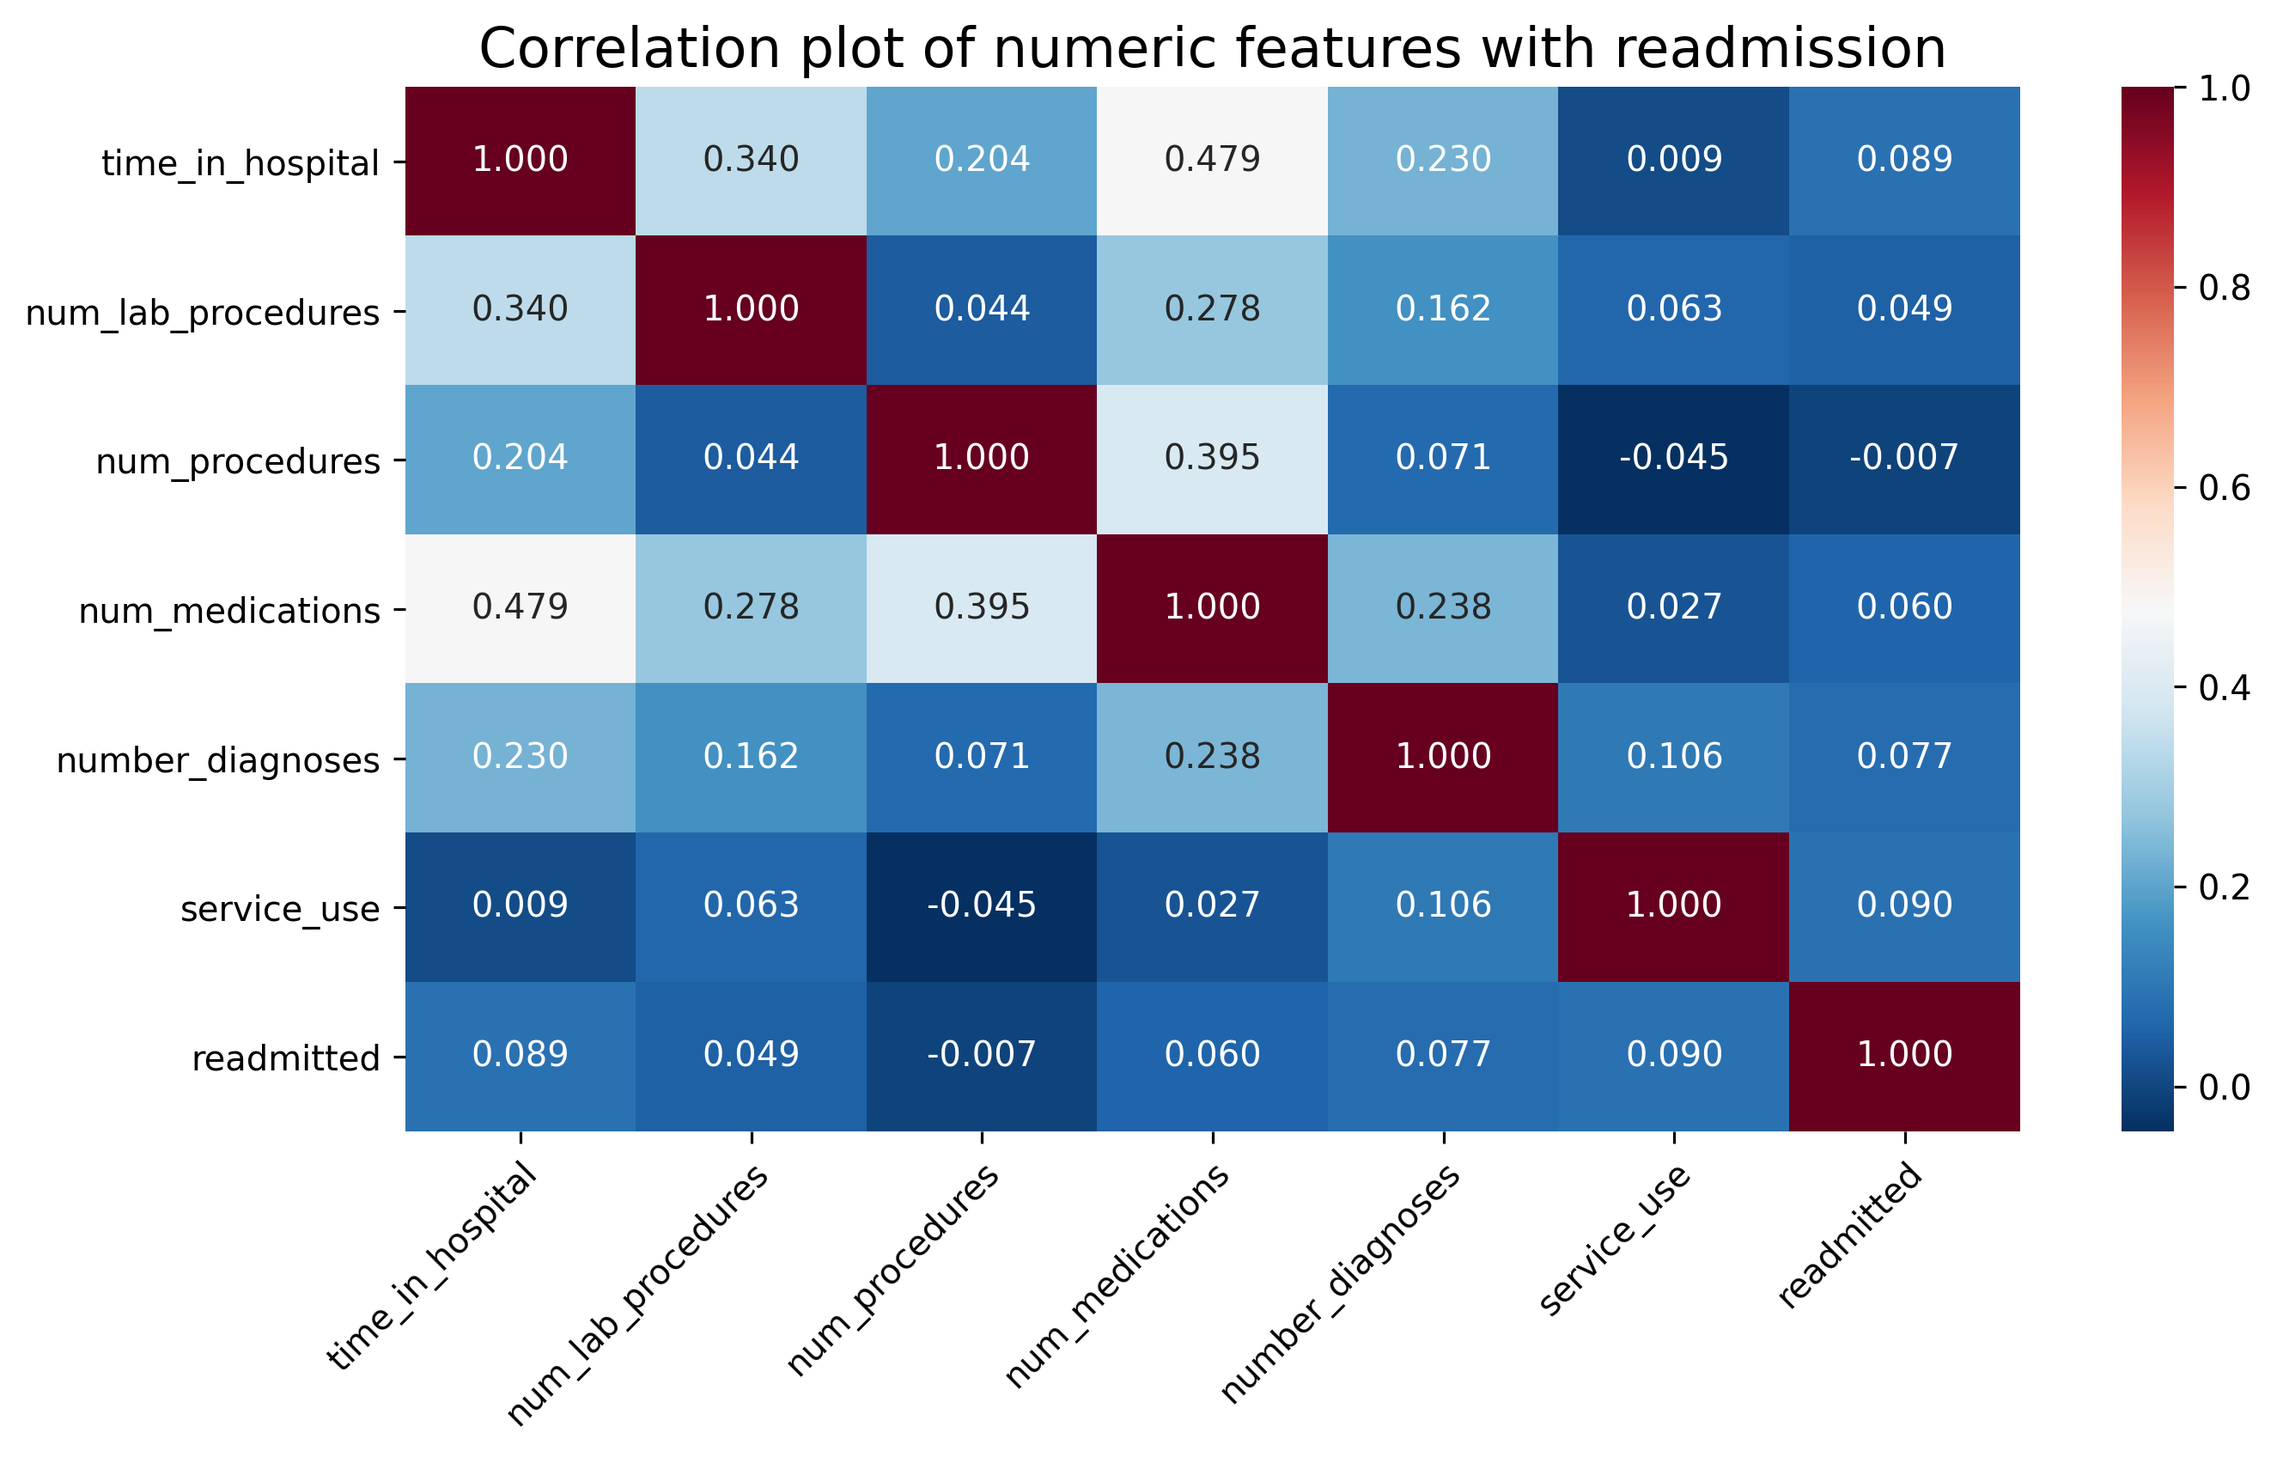
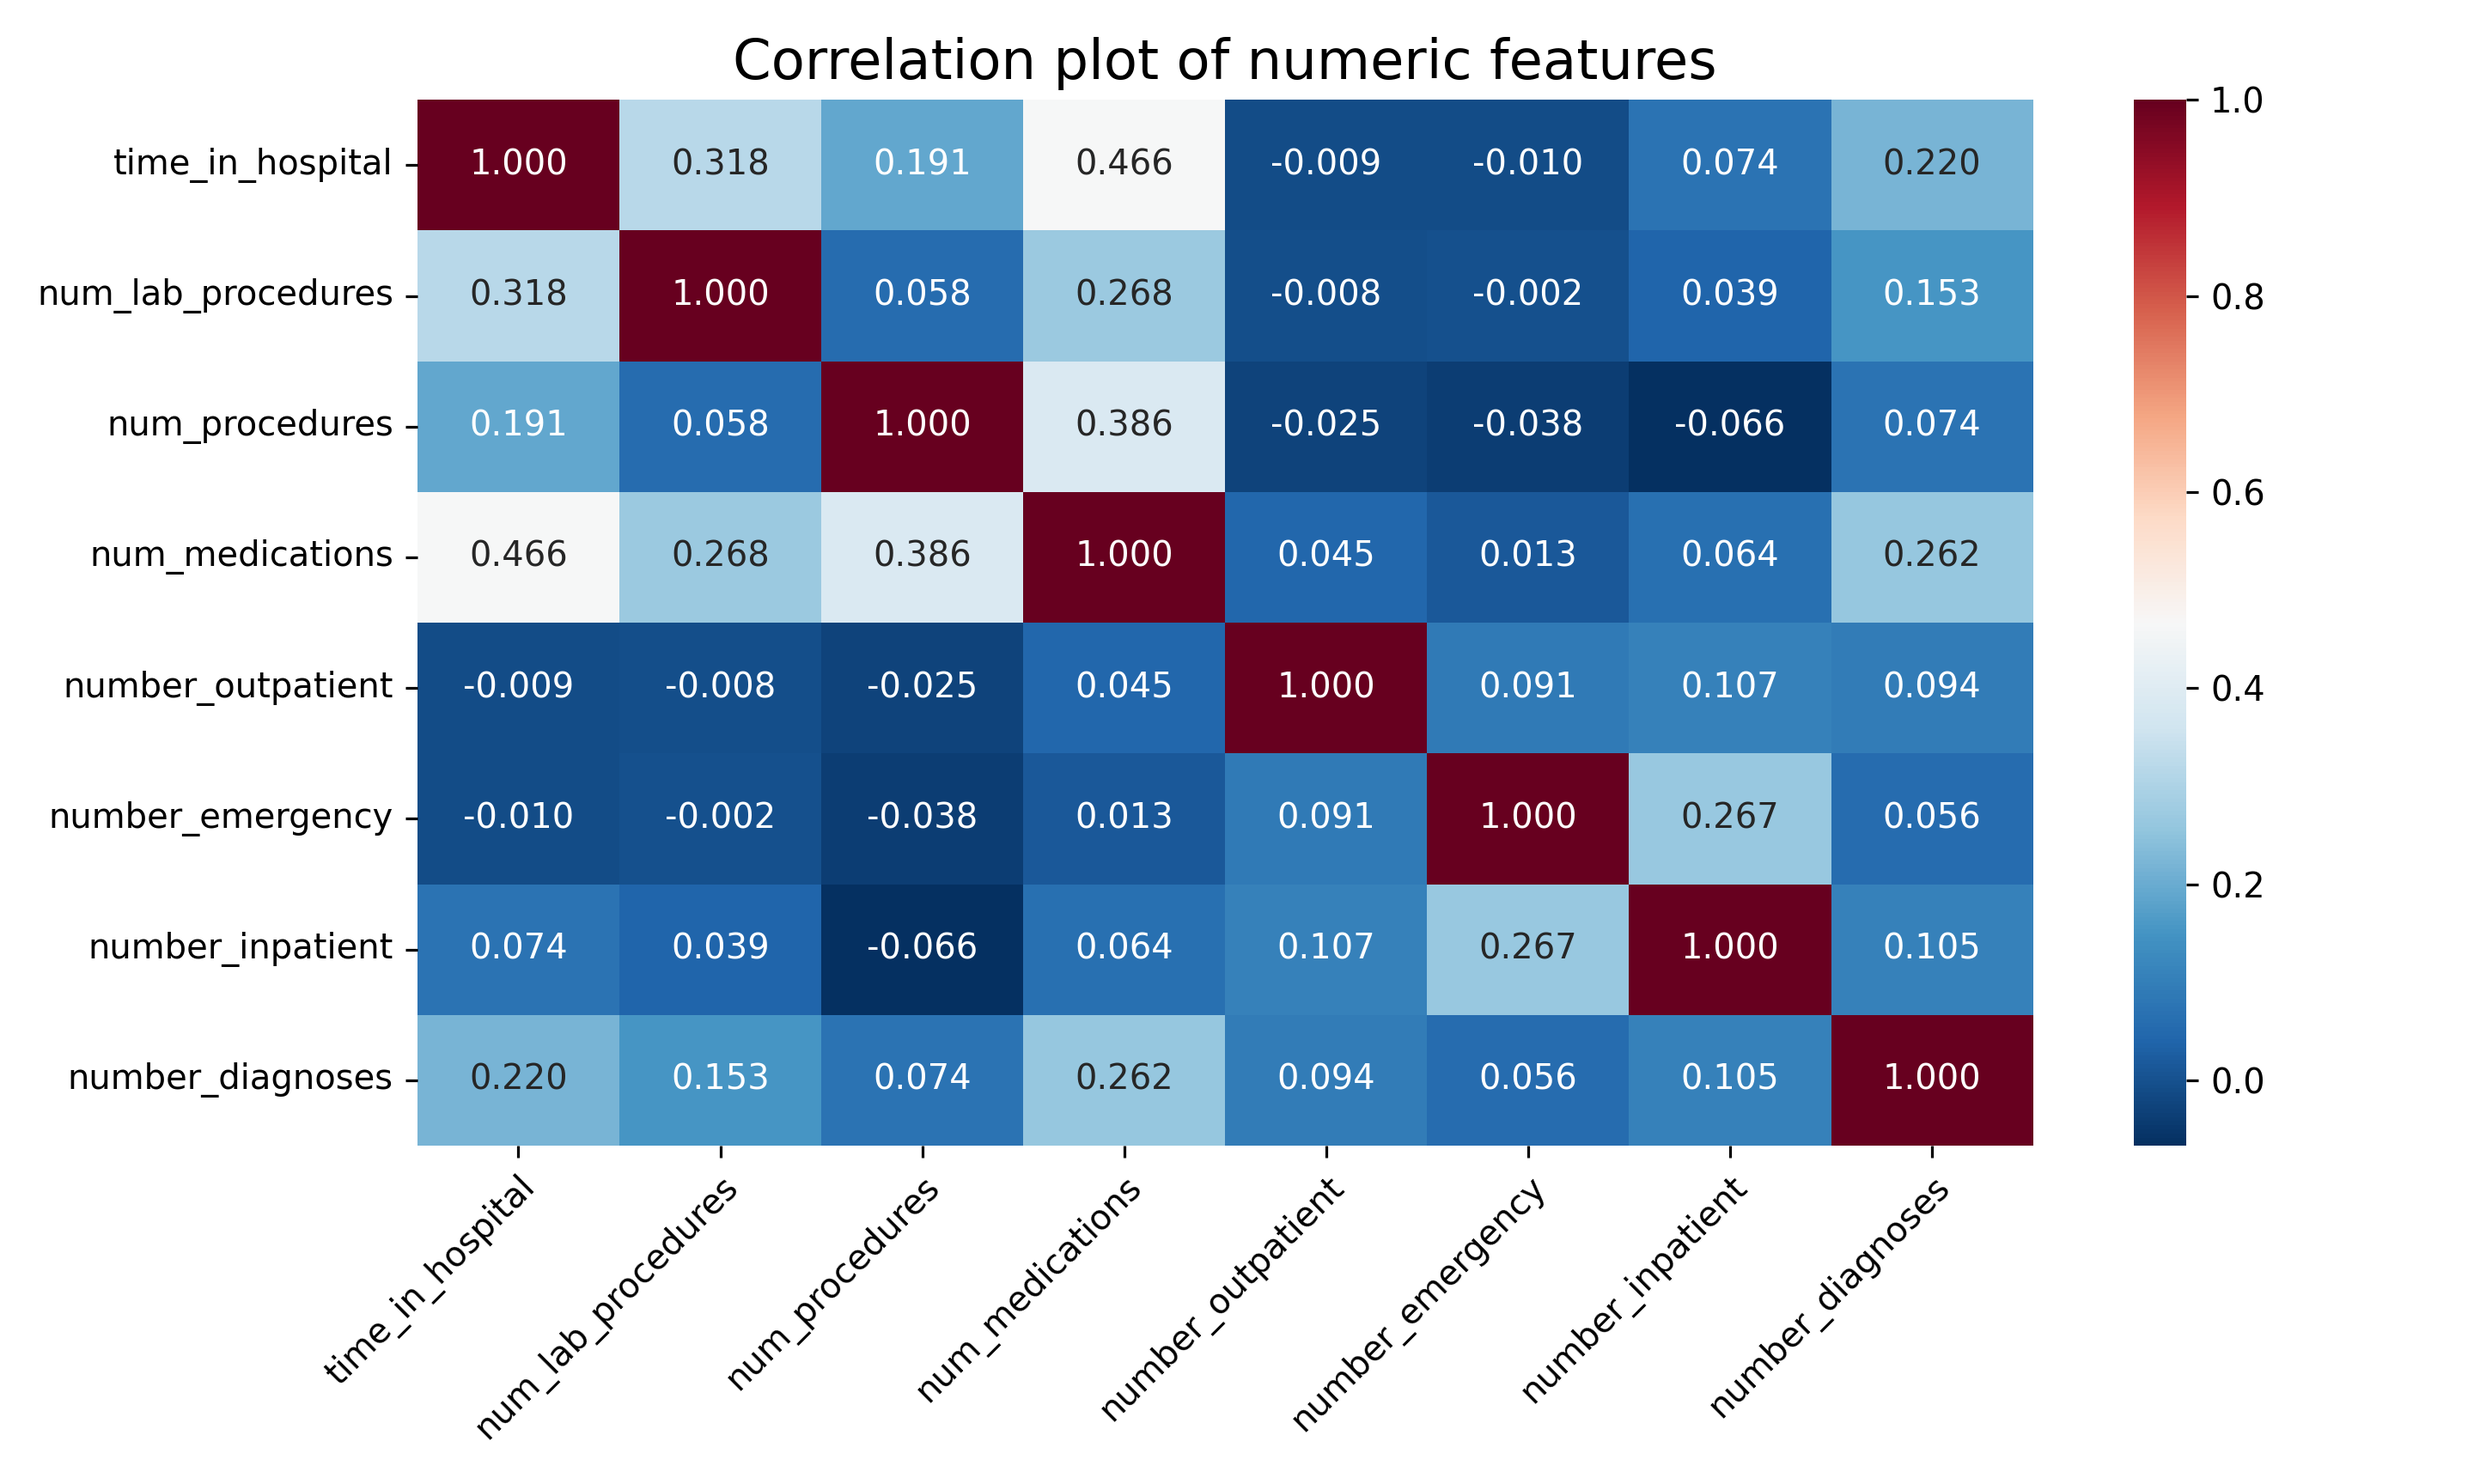
Correlation plot of numeric features

diff --git a/correlation_plot.py b/correlation_plot.py
@@ -5,18 +5,26 @@ import pandas as pd
 import matplotlib.pyplot as plt
 import seaborn as sns
 
-work_dir = Path.home() / 'Programming/Python/machine-learning-exercises/uci-ml-repository/diabetes-in-130-US-hospitals'
-df = pd.read_csv(work_dir / 'data/df_encoded.csv')
+work_dir = Path.home() / 'Programming/Python/machine-learning-exercises/'\
+                         'uci-ml-repository/diabetes-in-130-US-hospitals'
+df = pd.read_csv(work_dir / 'data/diabetic_data.csv')
 
 num_cols = ['time_in_hospital', 'num_lab_procedures', 'num_procedures',
-            'num_medications', 'number_diagnoses', 'service_use', 'readmitted']
+            'num_medications', 'number_outpatient', 'number_emergency',
+            'number_inpatient', 'number_diagnoses']
 
-corrs = df[num_cols].corr()
+# print(df.select_dtypes(np.number).columns.to_list())
+# df['race'] = df['race'].factorize()[0]
+# df['readmitted'] = df['readmitted'].factorize()[0]
+corrs = df[num_cols].corr(numeric_only=True)
 
 fig, axes = plt.subplots(figsize=(10, 6))
-sns.heatmap(corrs, cmap='RdBu_r', fmt='1.3f', annot=True, annot_kws={'fontsize': 10}, ax=axes)
-plt.setp(axes.get_xticklabels(), ha="right", rotation_mode="anchor", rotation=45, fontsize=10)
-plt.setp(axes.get_yticklabels(), ha="right", rotation_mode="anchor", rotation=0, fontsize=10)
-plt.title('Correlation plot of numeric features with readmission', fontsize=16)
+sns.heatmap(corrs, cmap='RdBu_r', fmt='1.3f', annot=True,
+            annot_kws={'fontsize': 10}, ax=axes)
+plt.setp(axes.get_xticklabels(), ha="right", rotation_mode="anchor",
+         rotation=45, fontsize=10)
+plt.setp(axes.get_yticklabels(), ha="right", rotation_mode="anchor",
+         rotation=0, fontsize=10)
+plt.title('Correlation plot of numeric features', fontsize=16)
 fig.tight_layout()
-plt.savefig(work_dir / 'plots/corr_plot.png', dpi=288, bbox_inches='tight')
+plt.savefig(work_dir / 'plots/corr_plot.png', dpi=288)
